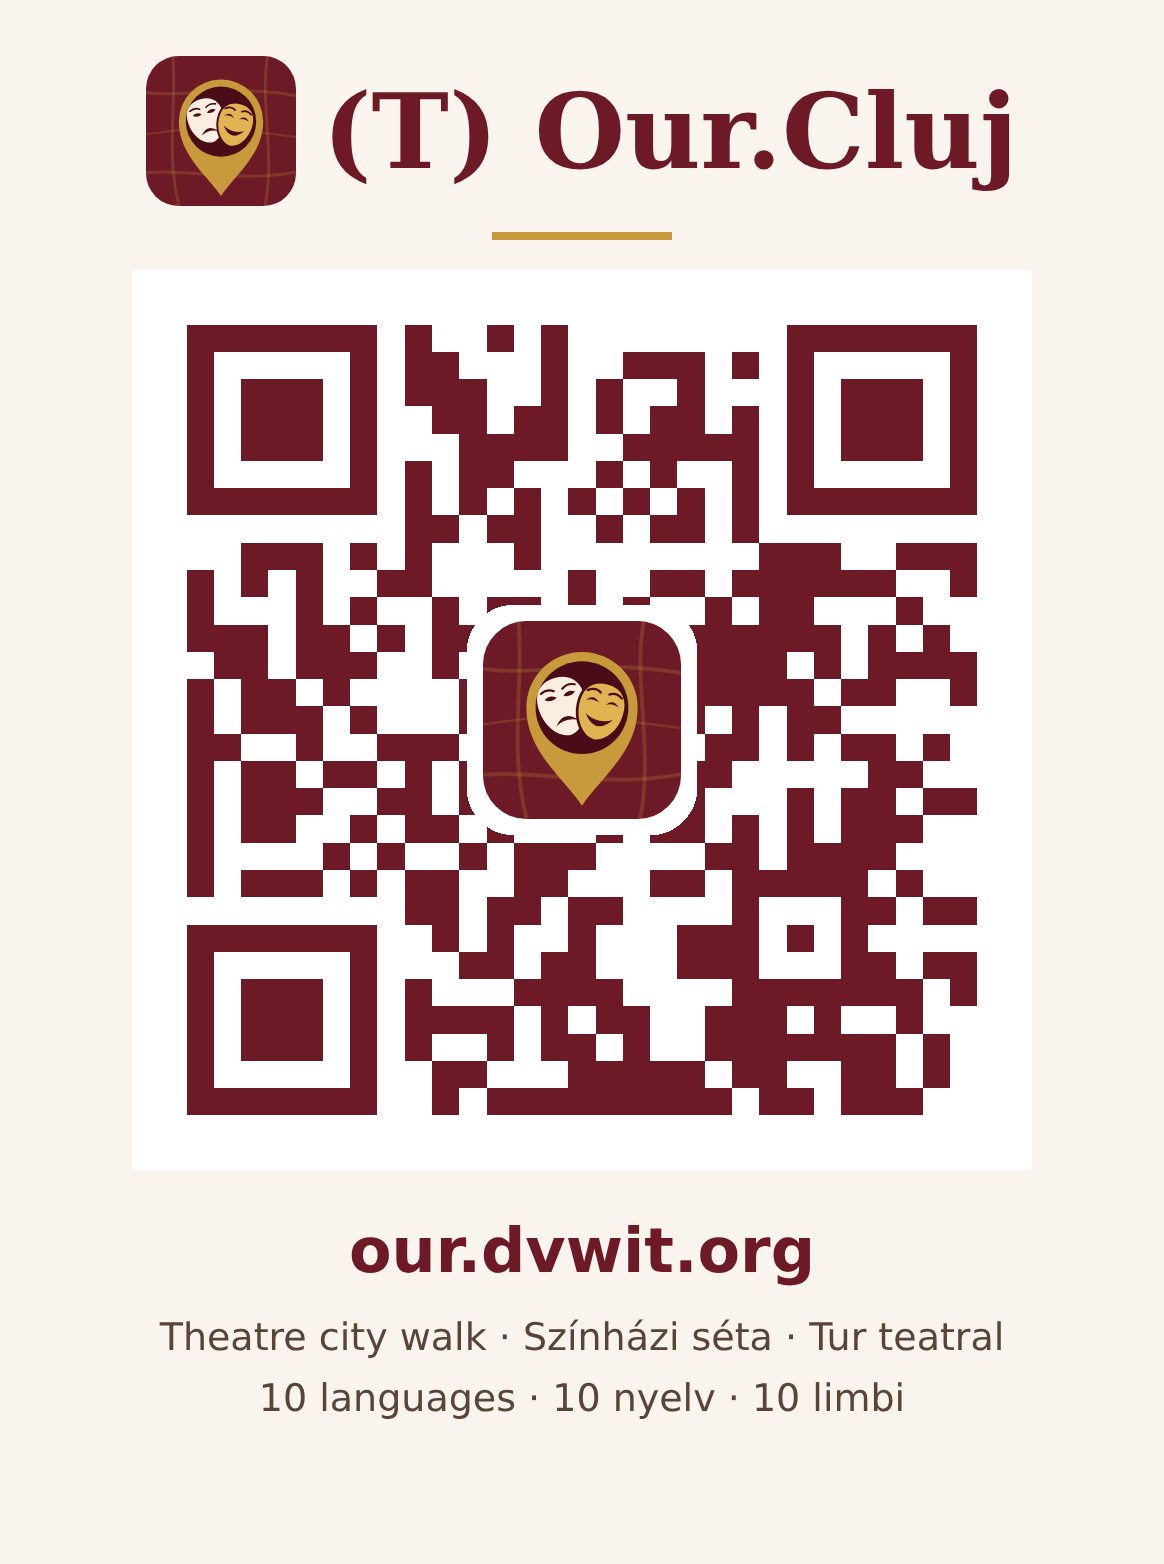
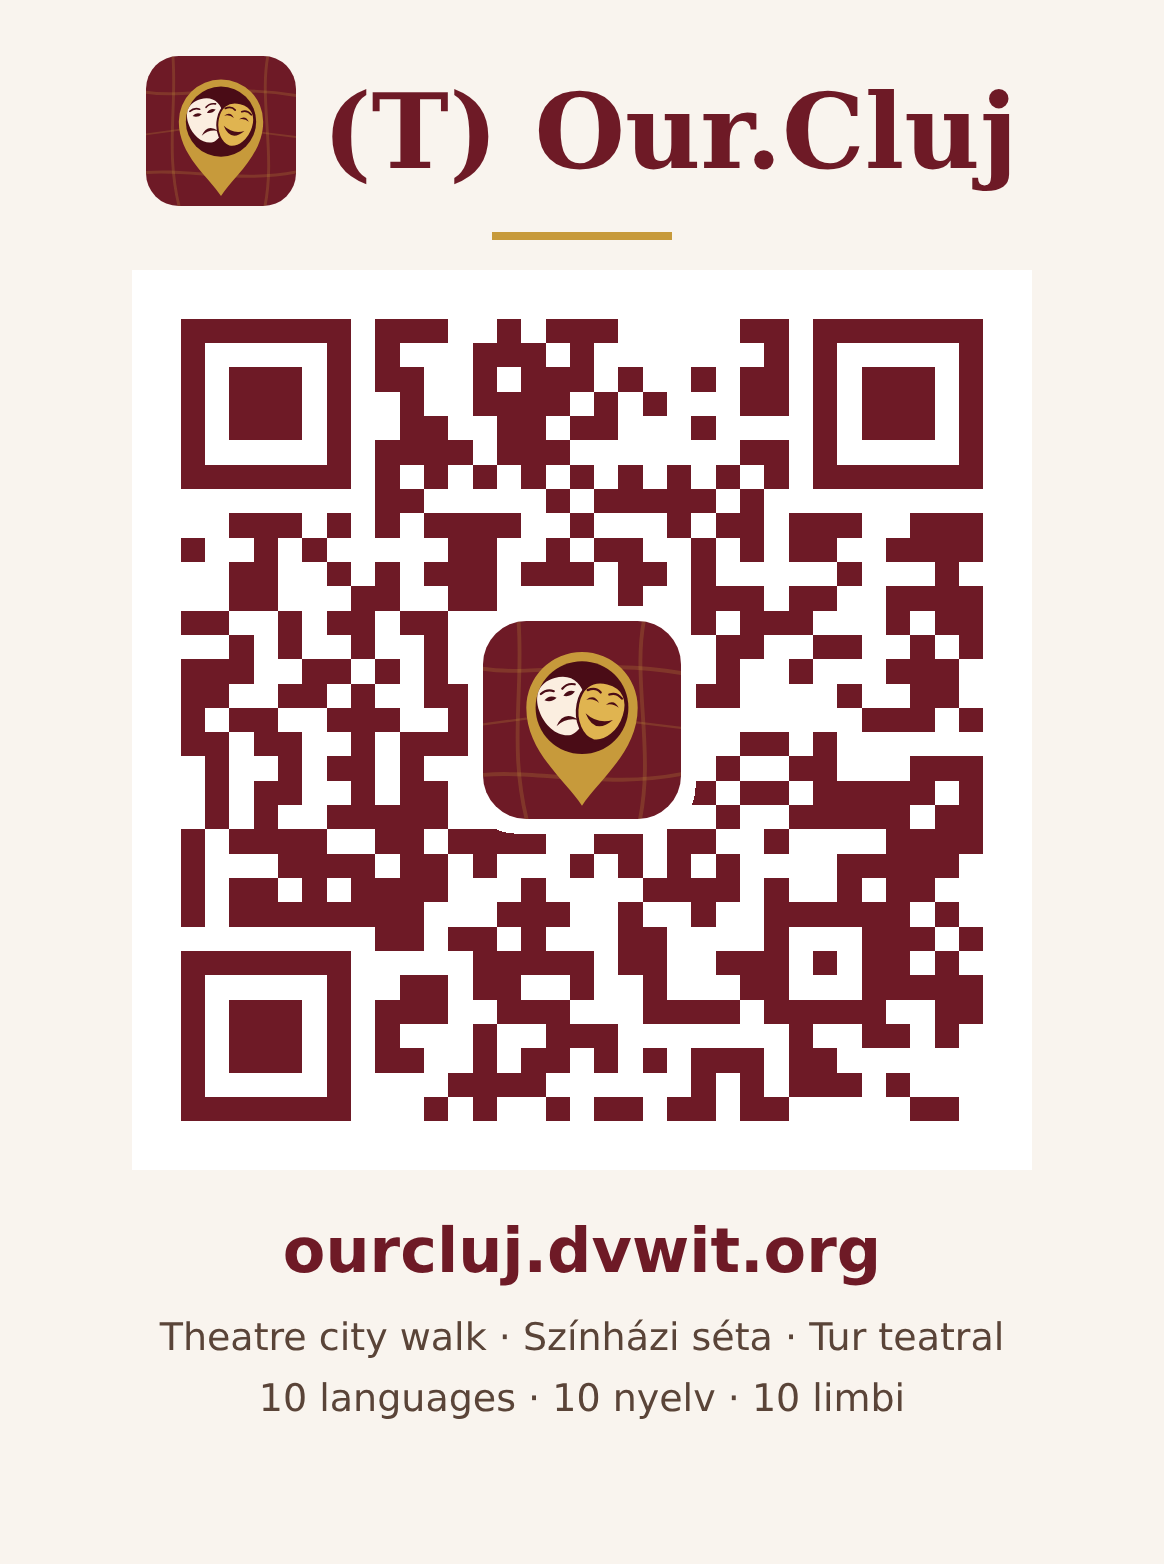
Sprachwahl nur noch einmal: erster Schritt der Einführung, auf dem Startbildschirm kompakter Knopf; Überbreite behoben; QR-Codes für ourcluj.dvwit.org
Die Sprachleiste in der Einführung hatte 10 Knöpfe in einer Zeile und schob die Karte über den Bildschirmrand.

Claude-Session: https://claude.ai/code/session_017TEcBhgGfgcxcBH9dKw1Dq

Changed region(s): [[0.1546, 0.1841, 0.866, 0.7366], [0.2474, 0.7673, 0.7732, 0.8286]]

diff --git a/js/boot.js b/js/boot.js
@@ -81,24 +81,31 @@
     return new Promise(resolve => {
       let step = 0;
       const box = $("onboard");
+      // Beim ersten Besuch ist die Sprachwahl der erste Schritt – danach nur noch über das Sprachmenü
+      const steps = store().onboarded ? STEPS : [{ lang: true, icon: "🌐", title: "chooseLang" }, ...STEPS];
       const render = () => {
         document.documentElement.lang = lang();
-        const s = STEPS[step];
+        const info = I.languages.find(l => l.code === lang());
+        document.documentElement.dir = (info && info.dir) || "ltr";
+        const s = steps[step];
         $("ob-icon").textContent = s.icon;
         $("ob-title").textContent = t(s.title);
-        $("ob-text").textContent = t(s.text);
-        $("ob-dots").innerHTML = STEPS.map((_, k) => `<span class="${k === step ? "on" : ""}"></span>`).join("");
-        $("ob-next").textContent = step < STEPS.length - 1 ? t("obNext") : t("obStart");
+        $("ob-text").textContent = s.lang ? "" : t(s.text);
+        $("ob-text").hidden = !!s.lang;
+        $("ob-langs").hidden = !s.lang;
+        $("ob-langs").querySelectorAll("button").forEach(b => b.setAttribute("aria-pressed", b.dataset.lang === lang() ? "true" : "false"));
+        $("ob-dots").innerHTML = steps.map((_, k) => `<span class="${k === step ? "on" : ""}"></span>`).join("");
+        $("ob-next").textContent = step < steps.length - 1 ? t("obNext") : t("obStart");
         $("ob-skip").textContent = t("obSkip");
-        $("ob-skip").hidden = step === STEPS.length - 1;
+        $("ob-skip").hidden = step === steps.length - 1;
         $("ob-head").textContent = t("howItWorks");
-        box.querySelectorAll(".ob-lang button").forEach(b => b.setAttribute("aria-pressed", b.dataset.lang === lang()));
       };
-      box.querySelector(".ob-lang").innerHTML = I.languages
-        .map(l => `<button type="button" data-lang="${l.code}" lang="${l.code}">${l.short}</button>`).join("");
-      box.querySelectorAll(".ob-lang button").forEach(b => { b.onclick = () => { saveStore({ lang: b.dataset.lang }); render(); }; });
-      const finish = () => { box.hidden = true; saveStore({ onboarded: true }); resolve(); };
-      $("ob-next").onclick = () => { if (step < STEPS.length - 1) { step++; render(); } else finish(); };
+      $("ob-langs").setAttribute("aria-label", t("chooseLang"));
+      $("ob-langs").innerHTML = I.languages
+        .map(l => `<button type="button" data-lang="${l.code}" lang="${l.code}"><img class="lang-flag" src="img/flags/${l.code}.svg" alt="" aria-hidden="true">${esc(l.label)}</button>`).join("");
+      $("ob-langs").querySelectorAll("button").forEach(b => { b.onclick = () => { saveStore({ lang: b.dataset.lang }); render(); }; });
+      const finish = () => { box.hidden = true; saveStore({ onboarded: true, lang: lang() }); resolve(); };
+      $("ob-next").onclick = () => { if (step < steps.length - 1) { step++; render(); } else finish(); };
       $("ob-skip").onclick = finish;
       render();
       box.hidden = false;

diff --git a/css/style.css b/css/style.css
@@ -356,9 +356,14 @@ html[dir="rtl"] .compare-tag.right { right: 10px; left: auto; }
 .ob-top { display: flex; justify-content: space-between; align-items: center; gap: 8px; margin-bottom: 8px; }
 .ob-head { font-size: 12px; letter-spacing: .12em; text-transform: uppercase; font-weight: 700; color: var(--wine); }
 @media (prefers-color-scheme: dark) { .ob-head { color: var(--gold); } }
-.lang-mini { display: flex; gap: 4px; }
-.lang-mini button { border: 1.5px solid var(--line); background: transparent; border-radius: 999px; padding: 3px 8px; font-size: 12px; font-weight: 700; }
-.lang-mini button[aria-pressed="true"] { background: var(--wine); border-color: var(--wine); color: #fff; }
+.ob-langs { display: grid; grid-template-columns: repeat(2, minmax(0, 1fr)); gap: 6px; margin-top: 4px; }
+.ob-langs[hidden] { display: none; }
+.ob-langs button { display: inline-flex; align-items: center; gap: 7px; min-width: 0; border: 1.5px solid var(--line); background: transparent;
+  color: var(--ink); border-radius: 999px; padding: 8px 12px; font-size: 14px; font-weight: 600; text-align: start; }
+.ob-langs button[aria-pressed="true"] { background: var(--wine); border-color: var(--wine); color: #fff; }
+.intro-lang-btn { display: inline-flex; align-items: center; gap: 8px; margin: 0 auto 18px; padding: 8px 16px; border-radius: 999px;
+  border: 1.5px solid rgba(251, 238, 224, .45); background: transparent; color: #fbeee0; font-size: 15px; font-weight: 600; }
+.intro-lang[hidden] { display: none; }
 .ob-icon { font-size: 54px; line-height: 1; margin: 18px 0 10px; }
 .ob-card h2 { font-size: 24px; margin: 0 0 10px; }
 .ob-card p { margin: 0; line-height: 1.55; color: var(--muted); font-size: 16px; min-height: 5em; }
@@ -507,3 +512,7 @@ html[dir="rtl"] .lang-menu { margin-left: 0; margin-right: auto; }
 }
 .lang-menu .lang-switch button, .intro-lang button { justify-content: flex-start; padding: 8px 12px; }
 .intro-lang { max-width: 360px; margin-left: auto; margin-right: auto; }
+.ob-langs button { font-size: 13px; padding: 7px 10px; gap: 6px; }
+.ob-langs button, .lang-menu .lang-switch button, .intro-lang button { overflow: hidden; white-space: nowrap; text-overflow: ellipsis; }
+.facts strong { white-space: nowrap; }
+@media (max-width: 360px) { .facts { gap: 12px; } .facts strong { font-size: 16px; } }

diff --git a/js/app.js b/js/app.js
@@ -84,6 +84,8 @@
     const routeM = MAIN.slice(1).reduce((sum, i, k) => sum + dist(S[MAIN[k]].coords, S[i].coords), 0) * 1.3; // Umwege grob einrechnen
     $("intro-km").textContent = t("approxKm", { km: num(Math.max(0.5, Math.round(routeM / 500) / 2)) });
     $("intro-min").textContent = t("approxMin", { min: Math.round((routeM / WALK_SPEED + MAIN.length * 5) / 10) * 10 });
+    $("intro-lang-btn").innerHTML = `<img class="lang-flag" src="img/flags/${state.lang}.svg" alt="" aria-hidden="true"> ${esc(langInfo().label)} <span aria-hidden="true">▾</span>`;
+    $("intro-lang-btn").setAttribute("aria-label", `${t("chooseLang")}: ${langInfo().label}`);
     $("drawer-lang").innerHTML = `🌐 ${esc(t("chooseLang"))}: <img class="lang-flag" src="img/flags/${state.lang}.svg" alt="" aria-hidden="true"> ${esc(langInfo().label)}`;
     $("lang-btn").innerHTML = `<img class="lang-flag" src="img/flags/${state.lang}.svg" alt="" aria-hidden="true">${esc(langInfo().short)}`;
     document.querySelectorAll(".lang-switch button").forEach(b => {
@@ -109,6 +111,12 @@
       box.querySelectorAll("button").forEach(b => { b.onclick = () => { setLang(b.dataset.lang); toggleLangMenu(false); }; });
     });
     $("lang-btn").onclick = e => { e.stopPropagation(); toggleLangMenu(); };
+    $("intro-lang-btn").onclick = () => {
+      const open = $("intro-lang").hidden;
+      $("intro-lang").hidden = !open;
+      $("intro-lang-btn").setAttribute("aria-expanded", open ? "true" : "false");
+    };
+    $("intro-lang").addEventListener("click", e => { if (e.target.closest("button")) { $("intro-lang").hidden = true; $("intro-lang-btn").setAttribute("aria-expanded", "false"); } });
     $("drawer-lang").onclick = e => { e.stopPropagation(); closeDrawer(); toggleLangMenu(true); };
     document.addEventListener("click", e => { if (!$("lang-menu").hidden && !$("lang-menu").contains(e.target)) toggleLangMenu(false); });
     document.addEventListener("keydown", e => { if (e.key === "Escape") toggleLangMenu(false); });

diff --git a/index.html b/index.html
@@ -15,10 +15,11 @@
   <!-- Kurze Einführung (einmalig, später über das Menü) -->
   <section class="onboard" id="onboard" hidden role="dialog" aria-modal="true" aria-labelledby="ob-title">
     <div class="ob-card">
-      <div class="ob-top"><span class="ob-head" id="ob-head"></span><div class="ob-lang lang-mini"></div></div>
+      <div class="ob-top"><span class="ob-head" id="ob-head"></span></div>
       <div class="ob-icon" id="ob-icon" aria-hidden="true"></div>
       <h2 id="ob-title"></h2>
       <p id="ob-text"></p>
+      <div class="ob-langs" id="ob-langs" role="group" hidden></div>
       <div class="ob-dots" id="ob-dots"></div>
       <div class="ob-actions">
         <button class="btn btn-ghost" id="ob-skip" type="button"></button>
@@ -47,7 +48,8 @@
       <p class="eyebrow" id="intro-organizer"></p>
       <h1 id="intro-title"></h1>
       <p class="lead" id="intro-subtitle"></p>
-      <div class="lang-switch intro-lang" role="group" data-i18n-aria="chooseLang"></div>
+      <button class="intro-lang-btn" id="intro-lang-btn" type="button" aria-expanded="false" aria-controls="intro-lang"></button>
+      <div class="lang-switch intro-lang" id="intro-lang" role="group" data-i18n-aria="chooseLang" hidden></div>
       <ul class="facts">
         <li><strong id="intro-count">5</strong> <span data-i18n="stations"></span> <small id="intro-optional" class="intro-optional"></small></li>
         <li><strong id="intro-km"></strong> <span data-i18n="onFoot"></span></li>

diff --git a/sw.js b/sw.js
@@ -1,5 +1,5 @@
 // Einfacher Offline-Cache für die App-Hülle (Kartenkacheln werden nicht vorab geladen).
-const CACHE = "ioi-cluj-v29";
+const CACHE = "ioi-cluj-v30";
 const SHELL = [
   "./", "index.html", "css/style.css", "js/i18n.js", "js/i18n-extra.js", "js/stations.js", "js/stations-locales.js", "js/audio.js", "js/boot.js", "js/app.js",
   "img/flags/en.svg", "img/flags/hu.svg", "img/flags/ro.svg", "img/flags/tr.svg", "img/flags/fa.svg", "img/flags/es.svg", "img/flags/ca.svg", "img/flags/de.svg", "img/flags/ar.svg", "img/flags/fr.svg",

diff --git a/README.md b/README.md
@@ -9,7 +9,7 @@ Walking through Cluj, visitors are guided from place to place. The phone's locat
 detects where they are and opens the story connected to that place: text, audio and
 interactive elements.
 
-**Live:** https://our.dvwit.org (old address ioi.dvwit.org redirects) · QR codes for slides and posters in `promo/` (`qr-our-cluj*`)
+**Live:** https://ourcluj.dvwit.org (old address ioi.dvwit.org redirects) · QR codes for slides and posters in `promo/` (`qr-our-cluj*`)
 
 ## Platform: tours for any city
 
